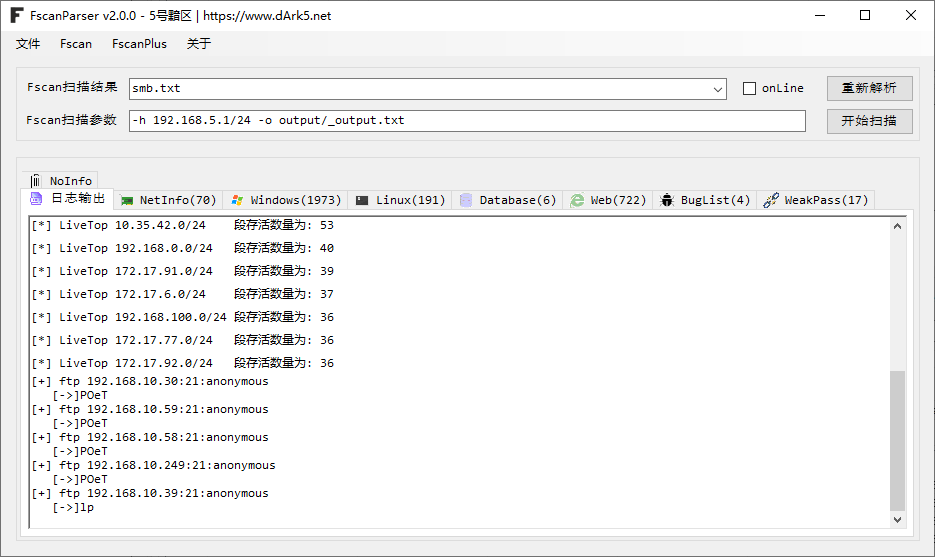
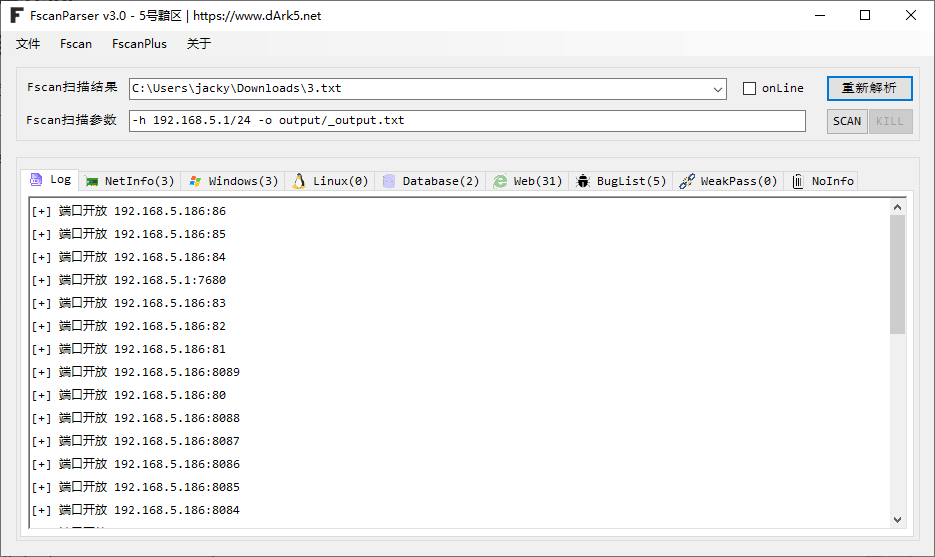
3.0

diff --git a/README.md b/README.md
@@ -1,12 +1,14 @@
 # FscanParser
  一个用于处理fsacn输出结果的图形化工具（尤其面对大量资产的fscan扫描结果做输出优化，让你打点快人五步！！！），五天的工作5个小时搞定，剩下4天半摸鱼。
 
-## 版本支持（2.0Fscan版本适配ing）
-目前支持最新版本[fscan](https://github.com/shadow1ng/fscan)(**1.8.4**)及[FscanPlus](https://github.com/teamdArk5/FscanPlus)的扫描结果：`fscan.exe -h 192.168.5.1/24 -o outputlocal.txt`
+## 版本支持（已经适配Fscan2.0）
+目前
 
-旧版fscan结果与新版稍有不同，会影响展示结果，请尽量使用新版。
+FscanParser 2.3支持版本[Fscan 1.8.4](https://github.com/shadow1ng/fscan/tree/1.8.4)(**1.8.4**)及[FscanPlus](https://github.com/teamdArk5/FscanPlus)的扫描结果：`fscan.exe -h 192.168.5.1/24 -o outputlocal.txt`
 
-让我们致敬[Fscan](https://github.com/shadow1ng/fscan)！！！
+FscanParser 3 支持最新版[Fscan](https://github.com/shadow1ng/fscan)的扫描结果。
+
+让我们一起致敬[Fscan](https://github.com/shadow1ng/fscan)！！！
 
 ## 视频教程
 
